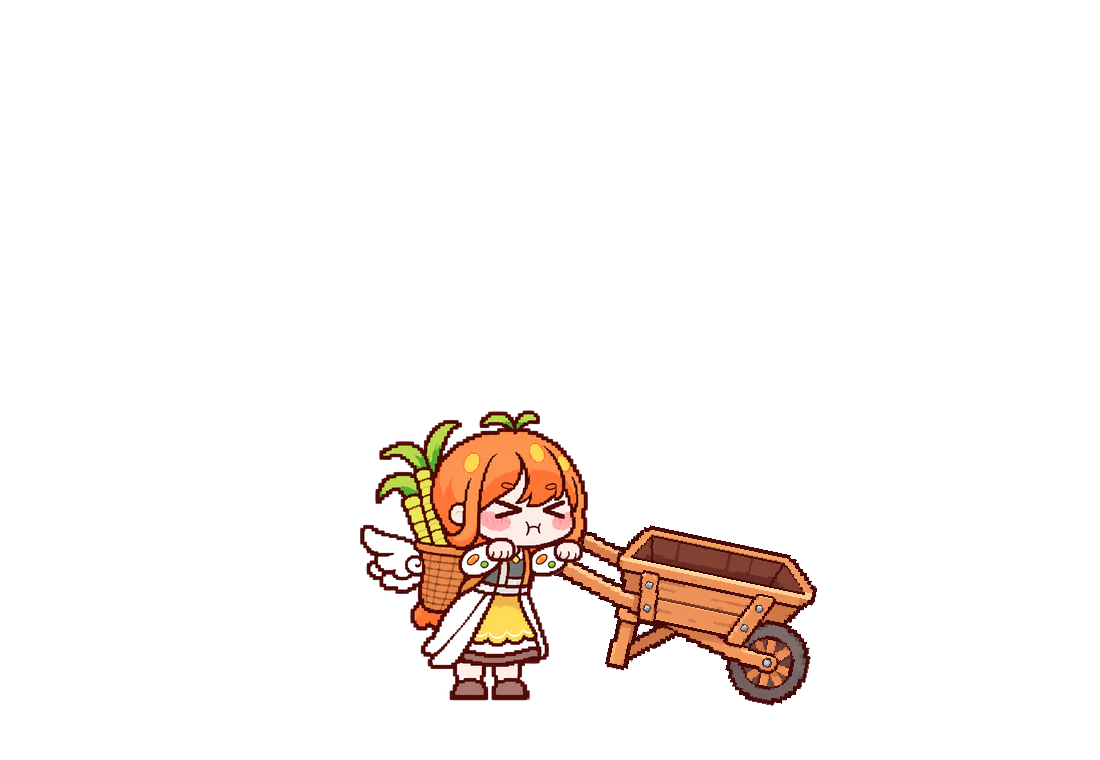
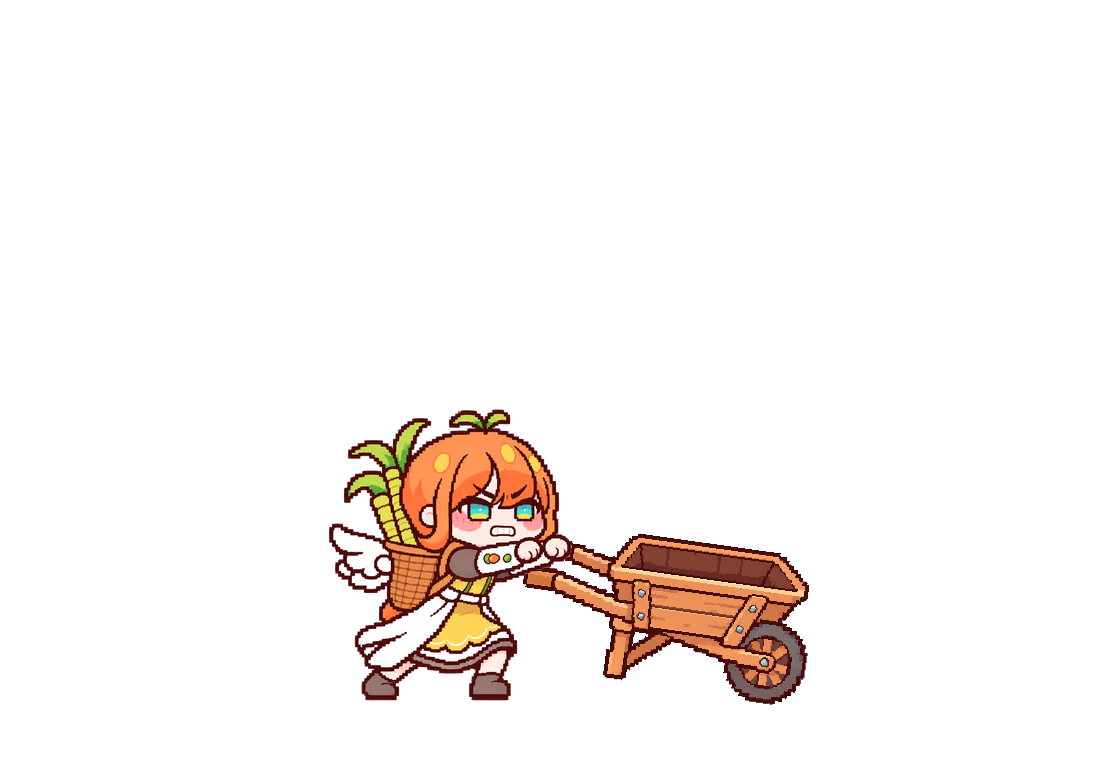
간지럼은 움찔만, 수레 들기는 팔 뻗어 밀어올리는 자세로 교체
- 간지럼: 문지르는 동안 움찔 반복, 손 떼면 눈 깜빡이고 원래대로(깔깔은 웹 검토용으로만)
- 수레: 쪼그려 잡기 → 어깨 높이로 밀어올림 → 두 팔 뻗고 발끝 폴짝(40°, 짐 쏟아짐) → 내려놓기 → 다시 잡기
- 안 쓰는 프레임(턱 걸림·이전 엎기·이전 들기) 정리

Changed region(s): [[0.2782, 0.5447, 0.7418, 0.9382]]

diff --git a/android/app/src/main/java/com/oddfactory/carrot/Stage.java b/android/app/src/main/java/com/oddfactory/carrot/Stage.java
@@ -86,11 +86,9 @@ final class Stage extends View {
     static final long WALK_MAX = 1500; // 산책 한 번에 걷는 최대 시간(ms)
 
     enum S { IDLE, WALK, ACT, GRAB, TUG, POP, BARROW_OUT, ENTER, EXIT, DRAG, TICKLE, OFF }
-    // 간지럼: 몸을 문지르면 처음엔 꾹 참고 움찔(squirm), 계속 문지르면 깔깔(laugh), 손을 떼면 잦아들며 눈물 닦기
+    // 간지럼: 몸을 문지르는 동안 꾹 참고 움찔(squirm), 손을 떼면 눈 깜빡이며 원래대로
     static final Clip SQUIRM = new Clip("tk_squirm_a", 150, "tk_squirm_b", 150);
-    static final Clip LAUGH = new Clip("tk_laugh_a", 120, "tk_laugh_b", 120);
-    static final Clip TICKLE_OUT = new Clip("tk_laugh_a", 120, "tk_laugh_b", 130, "tk_laugh_a", 150, "tk_calm", 1100, "k01_blink", 120, "master", 200);
-    static final Clip SQUIRM_OUT = new Clip("tk_squirm_b", 150, "tk_calm", 700, "k01_blink", 120, "master", 200);
+    static final Clip SQUIRM_OUT = new Clip("tk_squirm_a", 160, "k01_blink", 140, "master", 200);
     long rubMs, lastRub;
 
     // ================= 수레(여러 개 뽑기) =================
@@ -663,7 +661,7 @@ final class Stage extends View {
             case POP: return act == FALL ? FALL.at(t, false) : POP.at(t, false);
             case BARROW_OUT: return "b01_barrow";
             case ENTER: return ENTER.at(t, false);
-            case TICKLE: return rubMs < 1200 ? SQUIRM.at(t, true) : LAUGH.at(t, true);
+            case TICKLE: return SQUIRM.at(t, true);
             case DRAG: return t < PULL_IN.total ? PULL_IN.at(t, false) : PULL_LOOP.at(t - PULL_IN.total, true);
             case EXIT: return EXIT.at(t, false);
             case IDLE: return (t % 3200) > 3040 ? "k01_blink" : "master";
@@ -714,7 +712,7 @@ final class Stage extends View {
         if (s != S.TICKLE) return;
         long now = SystemClock.uptimeMillis(); rubMs += Math.min(120, now - lastRub); lastRub = now;
     }
-    void endTickle() { if (s == S.TICKLE) play(S.ACT, rubMs < 1200 ? SQUIRM_OUT : TICKLE_OUT); }
+    void endTickle() { if (s == S.TICKLE) play(S.ACT, SQUIRM_OUT); }
 
     long pausedAt;
     void resume() { if (running) return; running = true; long now = SystemClock.uptimeMillis(); if (pausedAt > 0) t0 += now - pausedAt; last = now; postOnAnimation(tick); }

diff --git a/tools/build_web.py b/tools/build_web.py
@@ -55,8 +55,10 @@ MOTIONS = [
     ("walk", "걷기 (홈 화면 산책)", WALK * 3),
     ("clap", "박수 (산책 중 무작위)", CLAP),
     ("water", "물주기 (산책 중 무작위)", WATER),
-    ("tickle", "문지르기 → 간지럼(움찔 → 깔깔 → 눈물 닦기)", C("master", 300) + C("tk_squirm_a", 150, "tk_squirm_b", 150) * 4 + C("tk_laugh_a", 120, "tk_laugh_b", 120) * 6 +
-     C("tk_laugh_a", 120, "tk_laugh_b", 130, "tk_laugh_a", 150, "tk_calm", 1100, "k01_blink", 120, "master", 400)),
+    ("tickle", "문지르기 → 간지럼(꾹 참고 움찔)", C("master", 300) + C("tk_squirm_a", 150, "tk_squirm_b", 150) * 6 + C("tk_squirm_a", 160, "k01_blink", 140, "master", 400)),
+    ("tickle_laugh", "[검토용·앱 미적용] 간지럼 깔깔 버전", C("master", 300) + C("tk_squirm_a", 150, "tk_squirm_b", 150) * 4 +
+     C("tk_laugh_a", 130, "tk_laugh_m", 100, "tk_laugh_c", 150, "tk_laugh_m", 100, "tk_laugh_b", 130, "tk_laugh_d", 150) * 3 +
+     C("tk_laugh_c", 150, "tk_laugh_m", 130, "tk_laugh_d", 170, "tk_laugh_m", 160, "tk_calm", 1100, "k01_blink", 120, "master", 400)),
     ("invite", "텃밭 열기 → 정원 초대", INVITE),
     ("pull", "꾹 눌러 끌기 → 볼 당김", PULL),
     ("delete_fall", "앱 하나 삭제 → 잡초 뽑고 엉덩방아", DELETE),

diff --git a/tools/export_overlay.py b/tools/export_overlay.py
@@ -27,8 +27,8 @@ FRAMES = [
     "h01_notice", "m05_harvest", "m05b_harvest_v2", "h03_popout", "k05_harvest",
     "m06_invite", "m06b_invite", "k06_invite",
     "fall_0", "fall_1", "fall_2",
-    "push_a", "push_pass_a", "push_b", "push_pass_b", "bw2_toss", "bw2_regrip", "bw2_lift", "wn_tug", "wn_rise", "bw2_windup", "dump_p1", "dump_p2", "dump_p3", "dump_p4", "dump_l1", "dump_l2", "crash_stumble", "crash_windmill", "crash_laugh",
-    "tk_squirm_a", "tk_squirm_b", "tk_laugh_a", "tk_laugh_b", "tk_calm", "lift_crouch", "lift_mid", "lift_top", "lift_ease",
+    "push_a", "push_pass_a", "push_b", "push_pass_b", "bw2_toss", "bw2_regrip", "bw2_lift", "wn_tug", "wn_rise", "bw2_windup",  
+    "tk_squirm_a", "tk_squirm_b", "lift_crouch", "lift_up1", "lift_up2", "lift_ease",
 ]
 
 

diff --git a/tools/dump_compose.py b/tools/dump_compose.py
@@ -90,7 +90,7 @@ def compose_lift(pose, char_h=320, foot_x=440, wheel_x=None, want=None):
 
 # 손잡이 번쩍 들어 쏟기: (자세, ms). 기울기는 주먹 높이로 정하고(compose_lift), 바퀴는 화면 끝에 둔 채 캐릭터가 따라 붙는다.
 # 3번 칸(가장 높이 든 순간)에 짐이 쏟아진다.
-SEQ = [("push_a", 160, None), ("lift_crouch", 220, None), ("lift_mid", 180, None), ("lift_top", 560, 50), ("lift_ease", 300, None), ("push_a", 380, None)]
+SEQ = [("push_a", 160, None), ("lift_crouch", 200, None), ("lift_up1", 180, None), ("lift_up2", 600, 40), ("lift_ease", 300, None), ("push_a", 380, None)]
 
 if __name__ == "__main__":
     meta = []
